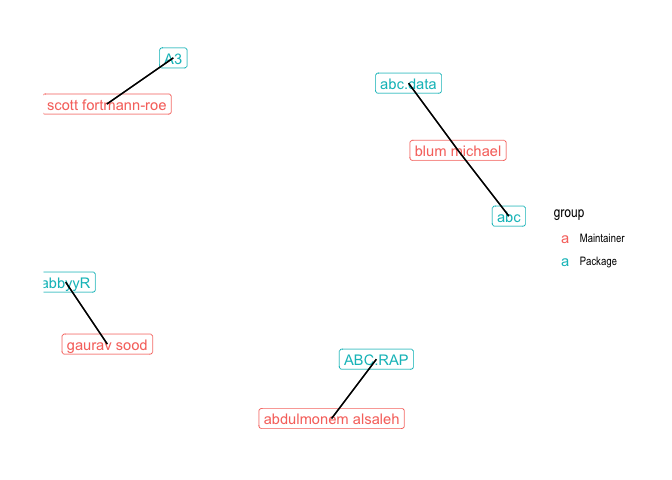
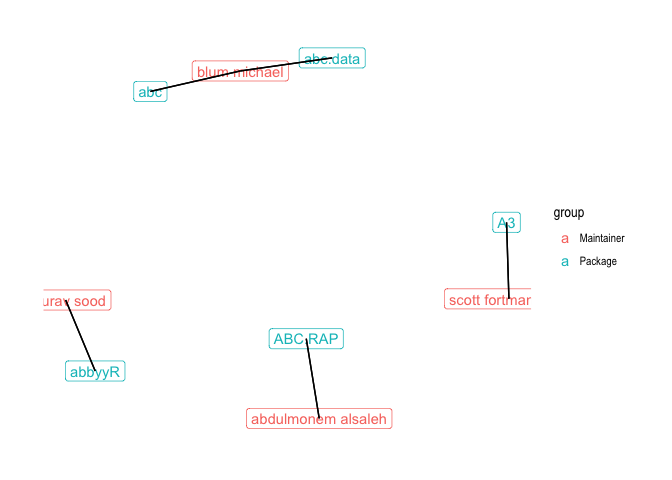
forgot to remove the visNetwork output in the previous version

diff --git a/README.md b/README.md
@@ -95,12 +95,12 @@ con$get_labels()
 #> # A tibble: 6 x 1
 #>   labels    
 #>   <chr>     
-#> 1 album     
-#> 2 setosa    
-#> 3 Author    
-#> 4 Package   
-#> 5 Maintainer
-#> 6 artist
+#> 1 Maintainer
+#> 2 Author    
+#> 3 artist    
+#> 4 album     
+#> 5 Package   
+#> 6 setosa
 # Get a vector of relationships (if any)
 con$get_relationships()
 #> # A tibble: 4 x 1
@@ -389,10 +389,10 @@ To be converted to a graph object,
 ``` r
 res %>%
   convert_to("igraph")
-#> IGRAPH de89ff9 DN-- 6 5 -- 
+#> IGRAPH bae9668 DN-- 6 5 -- 
 #> + attr: name (v/c), group (v/c), date (v/c), license (v/c), title
 #> | (v/c), version (v/c), type (e/c), id (e/c), properties (e/x)
-#> + edges from de89ff9 (vertex names):
+#> + edges from bae9668 (vertex names):
 #> [1] scott fortmann-roe->A3     scott fortmann-roe->A3    
 #> [3] gaurav sood       ->abbyyR gaurav sood       ->abbyyR
 #> [5] blum michael      ->abc
@@ -435,16 +435,6 @@ network <- 'MATCH p=()-[r:MAINTAINS]->() RETURN p LIMIT 10' %>%
 visNetwork::visNetwork(network$nodes, network$relationships)
 ```
 
-<!--html_preserve-->
-
-<div id="htmlwidget-e2cd3c576a1f5679188e" class="visNetwork html-widget" style="width:100%;height:480px;">
-
-</div>
-
-<script type="application/json" data-for="htmlwidget-e2cd3c576a1f5679188e">{"x":{"nodes":{"id":["0","1","2","3","4","5","6","7","8"],"group":["Package","Maintainer","Package","Maintainer","Package","Maintainer","Package","Package","Maintainer"],"date":["2015-08-15",null,"NA",null,"2015-05-04",null,"2015-05-04","NA",null],"license":["GPL (>= 2)",null,"MIT + file LICENSE",null,"GPL (>= 3)",null,"GPL (>= 3)","GPL-3",null],"label":["A3","scott fortmann-roe","abbyyR","gaurav sood","abc","blum michael","abc.data","ABC.RAP","abdulmonem alsaleh"],"title":["Accurate, Adaptable, and Accessible Error Metrics for Predictive\nModels",null,"Access to Abbyy Optical Character Recognition (OCR) API",null,"Tools for Approximate Bayesian Computation (ABC)",null,"Data Only: Tools for Approximate Bayesian Computation (ABC)","Array Based CpG Region Analysis Pipeline",null],"version":["1.0.0",null,"0.5.1",null,"2.1",null,"1.0","0.9.0",null]},"edges":{"id":["16713","0","16714","1","16715","2","16716","3","16717","4"],"type":["MAINTAINS","MAINTAINS","MAINTAINS","MAINTAINS","MAINTAINS","MAINTAINS","MAINTAINS","MAINTAINS","MAINTAINS","MAINTAINS"],"from":["1","1","3","3","5","5","5","5","8","8"],"to":["0","0","2","2","4","4","6","6","7","7"],"properties":[null,null,null,null,null,null,null,null,null,null]},"nodesToDataframe":true,"edgesToDataframe":true,"options":{"width":"100%","height":"100%","nodes":{"shape":"dot"},"manipulation":{"enabled":false}},"groups":["Package","Maintainer"],"width":null,"height":null,"idselection":{"enabled":false},"byselection":{"enabled":false},"main":null,"submain":null,"footer":null,"background":"rgba(0, 0, 0, 0)"},"evals":[],"jsHooks":[]}</script>
-
-<!--/html_preserve-->
-
 ## Sending data to the api
 
 You can simply send queries has we have just seen, by writing the cypher
@@ -469,7 +459,7 @@ iris %>%
 #> [1] "Neo.ClientError.Schema.ConstraintValidationFailed"
 #> 
 #> $error_message
-#> [1] "Node(19215) already exists with label `setosa` and property `Species` = '1'"
+#> [1] "Node(19217) already exists with label `setosa` and property `Species` = '1'"
 ```
 
 ``` r
